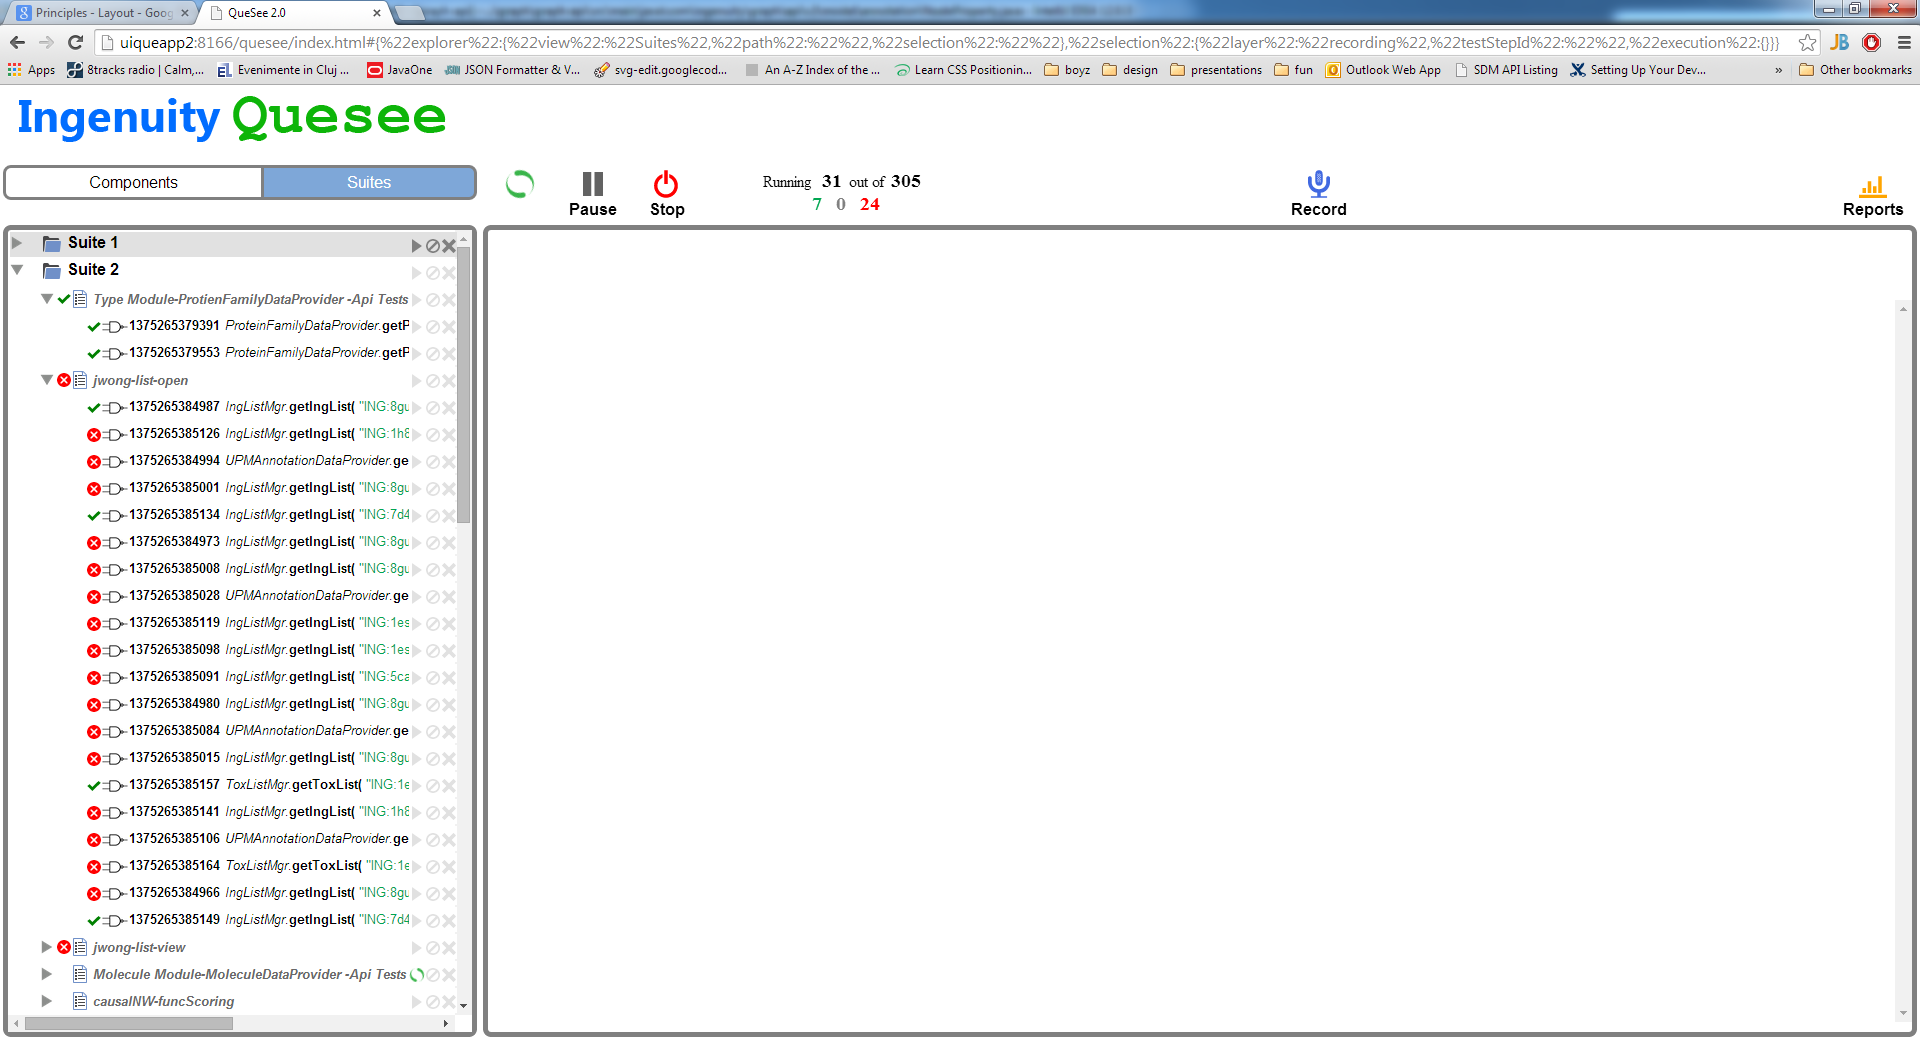
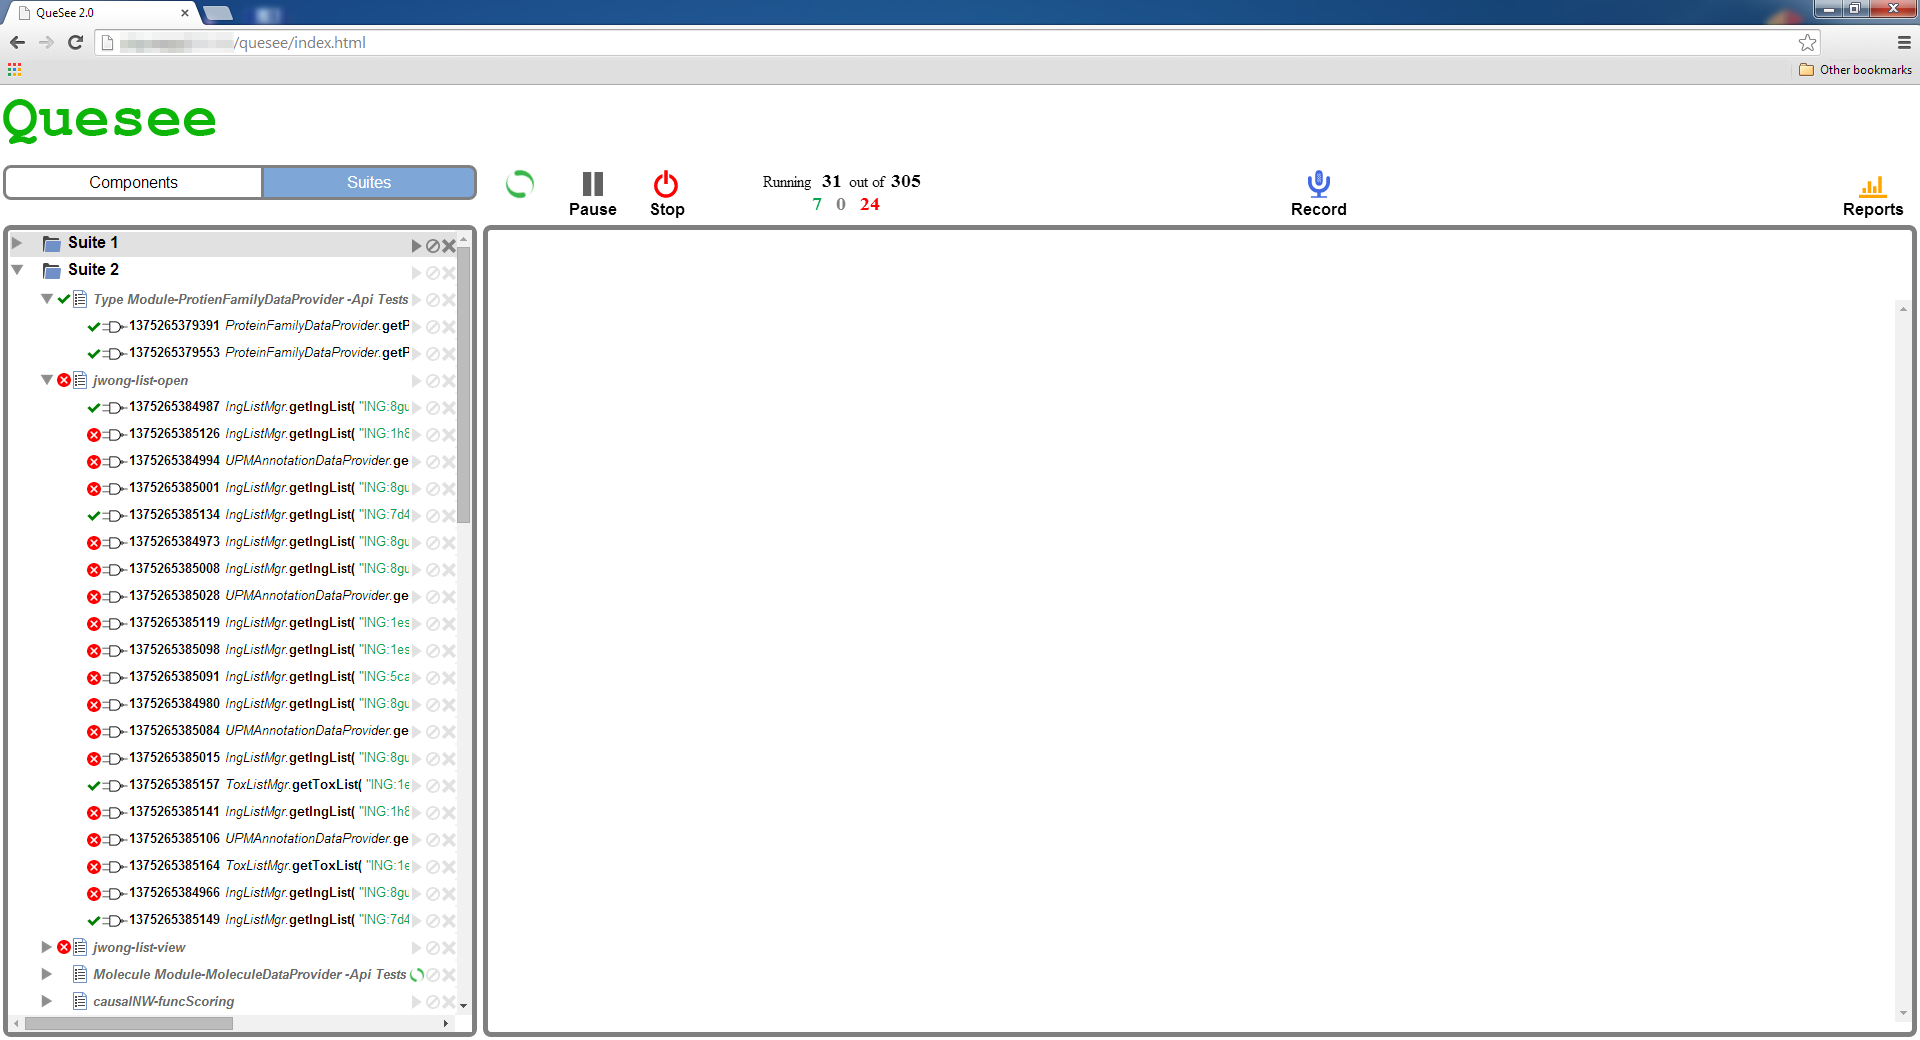
removed branding from images and added before version of quesee to the article

Changed region(s): [[0.0, 0.0, 1.0, 0.1538]]

diff --git a/quesee.html b/quesee.html
@@ -88,7 +88,12 @@
 
 				<p>In a nutshell, this is a record/replay tool for the communication between the components of the system. The communication consists of serialized Java objects that are passed between components on specific requests. The tool is based on the idea that recordings will be done when the system is in a stable state and those recordings will be compared against the traffic within the system at a future date to make sure nothing changed or to spot what changed.</p>
 
-				<a class="fancybox" rel="storyboards" title="Cooking a nice dinner" href="img/hci_project/hand drawn/cooking_storyboard_full_size.jpg"><img id="function_candidates_1" src="img/hci_project/hand drawn/cooking_storyboard_stripe.jpg" alt="" /></a>
+				<a class="fancybox" rel="before" title="Homepage" href="img/quesee/before/homepage.png"><img class="gallery3" id="before_1" src="img/quesee/before/homepage.png" alt="" /></a>
+				<a class="fancybox" rel="before" title="Scenarios" href="img/quesee/before/scenarios.png"><img class="gallery3" id="before_4" src="img/quesee/before/scenarios.png" alt="" /></a>
+				<a class="fancybox" rel="before" title="Scenario view" href="img/quesee/before/scenario-view.png"><img class="gallery3" id="before_3" src="img/quesee/before/scenario-view.png" alt="" /></a>
+				<a class="fancybox" rel="before" title="Scenario run" href="img/quesee/before/scenario-run.png"><img class="gallery3" id="before_2" src="img/quesee/before/scenario-run.png" alt="" /></a>
+				<a class="fancybox" rel="before" title="Test view" href="img/quesee/before/test-view.png"><img class="gallery3" id="before_5" src="img/quesee/before/test-view.png" alt="" /></a>
+				<a class="fancybox" rel="before" title="Test run" href="img/quesee/before/test-run.png"><img class="gallery3" id="before_6" src="img/quesee/before/test-run.png" alt="" /></a>
 
 				<p>For those of you not familiar with test automation, I will describe it to you in a nutshell.</p>
 
@@ -135,9 +140,15 @@
 				<p>After having a clearer idea of how I wanted the application to look like, I created a series of wireframes in order to communicate with the remote team I was working for and ask for their feedback.</p>
 
 				<!-- mention balsamiq -->
-				<!-- picture here -->
+                <a class="fancybox" rel="wireframes" title="Suite selection" href="img/quesee/after/wireframes/1.suite_view.png"><img class="gallery3" id="wireframes_1" src="img/quesee/after/wireframes/1.suite_view.png" alt="" /></a>
+                <a class="fancybox" rel="wireframes" title="Scenario selection" href="img/quesee/after/wireframes/2.scenario%20view.png"><img class="gallery3" id="wireframes_2" src="img/quesee/after/wireframes/2.scenario%20view.png" alt="" /></a>
+                <a class="fancybox" rel="wireframes" title="Test selection" href="img/quesee/after/wireframes/3.step_view.png"><img class="gallery3" id="wireframes_3" src="img/quesee/after/wireframes/3.step_view.png" alt="" /></a>
 
-				<!-- talk about the JSON tree and about the progressive disclosure which is key in solving the performance problem -->
+				<p>talk about the JSON tree and about the progressive disclosure which is key in solving the performance problem </p>
+
+                <a class="fancybox" rel="wireframes" title="Run all tests" href="img/quesee/after/wireframes/4.run_all_view.png"><img class="gallery3" id="wireframes_4" src="img/quesee/after/wireframes/4.run_all_view.png" alt="" /></a>
+                <a class="fancybox" rel="wireframes" title="Record tests" href="img/quesee/after/wireframes/5.record_colapsed_view.png"><img class="gallery3" id="wireframes_5" src="img/quesee/after/wireframes/5.record_colapsed_view.png" alt="" /></a>
+                <a class="fancybox" rel="wireframes" title="Recorded test expanded" href="img/quesee/after/wireframes/6.record_expanded_view.png"><img class="gallery3" id="wireframes_6" src="img/quesee/after/wireframes/6.record_expanded_view.png" alt="" /></a>
 
 				<p>As you can see, the wireframes are not complete and do not cover all the possible scenarios, but this was enough to get the conversation started, get some feedback and start to develop the new user interface.</p>
 
@@ -147,7 +158,7 @@
 
 		        <p>It took more than a few months for the design to come to life and there were a lot of tiny additional decisions that were made along the line to accommodate all the requirements.</p>
 
-				<!-- picture here -->
+				<a class="fancybox" rel="implementation" title="Run all tests" href="img/quesee/after/implementation/5.running_tests.png"><img class="gallery3" id="impementation_1" src="img/quesee/after/implementation/5.running_tests.png" alt="" /></a>
 
 				<!-- talk about the comparison view -->
 
